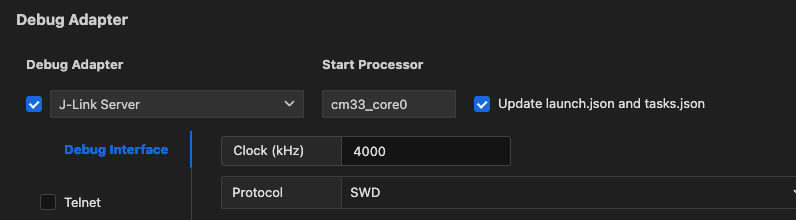
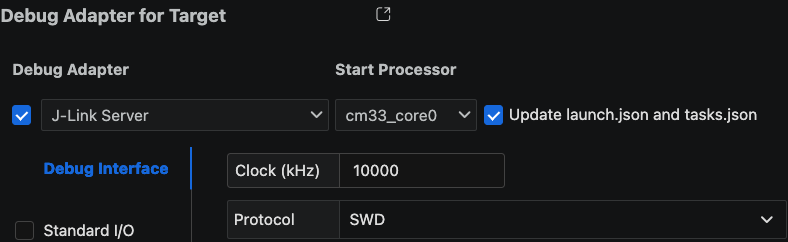
Updates for v1.74.0 (#56)
* Added missing commands

* Crated screenshots of Standard I/O option

* Updated rev history

diff --git a/docs/debug.md b/docs/debug.md
@@ -964,46 +964,51 @@ The workspace `launch.json` and `tasks.json` files are updated in the following 
 
 In the [Manage Solution](./manage_settings.md) dialog, select the one of the debug adapters named **xyz@pyOCD**:
 
+In multi-core systems, you can select the **Start Processor**.
+
 For the **Debug Interface**, you can:
 
-- Set the maximum clock speed.
-- Select the debug protocol (`SWD` or `JTAG`).
+- Set the maximum **Clock (kHz)** speed.
+- Select the debug **Protocol** (`SWD` or `JTAG`).
 
 ![pyOCD Debug Interface Settings](./images/pyocd-as-debug-adapter.png)
 
-For **Telnet**, you can:
+For **Standard I/O**, you can:
 
-- Enable or disable the use of **Telnet** for semihosting.
-- Set the **Telnet Mode** to:
-  - Telnet Server: if you want to connect to the target with a standalone Telnet Client application.
-  - Debug Console: redirects the output to the VS Code **DEBUG CONSOLE** panel.
-  - Serial Monitor: redirects the output to the **SERIAL MONITOR** extension.
-  - Text File: saves the output to a file in the project workspace.
-  - Disabled: does not redirect the serial output.
+- Enable or disable the use of **Standard I/O** for semihosting.
+- Set the **Redirect Mode** to:
+    - **Telnet Server**: if you want to connect to the target with a standalone Telnet Client application.
+    - **Debug Console**: redirects the output to the VS Code **DEBUG CONSOLE** panel.
+    - **Serial Monitor**: redirects the output to the **SERIAL MONITOR** extension.
+    - **Text File**: saves the output to a file in the project workspace.
+    - **Disabled**: does not redirect the serial output.
 
-![Using pyOCD with Telnet](./images/pyocd-telnet.png)
+![Using pyOCD with Standard I/O](./images/pyocd-standardio.png)
 
 ### J-Link Server
 
 In the [Manage Solution](./manage_settings.md) dialog select **J-Link Server**.
 
+In multi-core systems, you can select the **Start Processor**.
+
 For the **Debug Interface**, you can:
 
-- Set the maximum clock speed.
-- Select the debug protocol (`SWD` or `JTAG`).
+- Set the maximum **Clock (kHz)** speed.
+- Select the debug **Protocol** (`SWD` or `JTAG`).
 
 ![JLink Server as debug adapter](./images/j-link-debug-adapter.png)
 
-For **Telnet**, you can:
+For **Standard I/O**, you can:
 
-- Enable or disable the use of **Telnet** for semihosting.
-- Set the **Telnet Mode** to:
-  - Telnet Server: if you want to connect to the target with a standalone Telnet Client application.
-  - Debug Console: redirects the output to the VS Code **DEBUG CONSOLE** panel.
-  - Serial Monitor: redirects the output to the **SERIAL MONITOR** extension.
-  - Disabled: does not redirect the serial output.
+- Enable or disable the use of **Standard I/O** for semihosting.
+- Set the **Redirect Mode** to:
+    - **Telnet Server**: if you want to connect to the target with a standalone Telnet Client application.
+    - **Debug Console**: redirects the output to the VS Code **DEBUG CONSOLE** panel.
+    - **Serial Monitor**: redirects the output to the **SERIAL MONITOR** extension.
+    - **Text File**: saves the output to a file in the project workspace.
+    - **Disabled**: does not redirect the serial output.
 
-![Using J-Link with Telnet](./images/jlink-telnet.png)
+![Using JLink with Standard I/O](./images/pyocd-standardio.png)
 
 ### Arm Debugger
 
@@ -1021,16 +1026,23 @@ Before you can launch a debug session using Arm Debugger, you need to:
 
 In the [Manage Solution](./manage_settings.md) dialog, select the one of the debug adapters named **xyz@Arm-Debugger**.
 
+In multi-core systems, you can select the **Start Processor**.
+
+For the **Debug Interface**, you can:
+
+- Set the maximum **Clock** speed. Default is `auto`.
+- Select the debug **Protocol** (`SWD` or `JTAG`). Default is `auto`.
+
 ![Arm-Debugger as debug adapter](./images/arm-debugger-as-adapter.png)
 
 ### Arm FVPs
 
 In the [Manage Solution](./manage_settings.md) dialog:
 
-- Select the **Arm-FVP** debug adapter
-- Select the model you wish to use
-- Point to your configuration file
-- If you wish to set a simulation limit, add this in the **Misc** box:
+- Select the **Arm-FVP** debug adapter.
+- Select the **Model** you wish to use.
+- Select your **Config File**.
+- Use **Misc** to add additional command line options:
 
 ![Arm-FVP Debug Adapter Settings](./images/arm-fvp-debug-adapter.png)
 

diff --git a/docs/runexternal.md b/docs/runexternal.md
@@ -24,9 +24,11 @@ In addition to the [VS Code built-in variables](https://code.visualstudio.com/do
 | `${command:cmsis-csolution.getDeviceName}`     | The device name for the Active Target as specified in the csolution.yml |
 | `${command:cmsis-csolution.getDfpName}`        | The Device Family Pack (DFP) for the Active Target |
 | `${command:cmsis-csolution.getDfpPath}`        | The path to the content of the DFP for the Active Target |
+| `${command:cmsis-csolution.getInfoPath}`       | Path to the output directory containing active clangd information. |
+| `${command:cmsis-csolution.getPackRootPath}`   | Path to the CMSIS-Pack root directory, determined by CMSIS_PACK_ROOT or the operating system default. |
 | `${command:cmsis-csolution.getProcessorName}`  | The name of the processor for the Active Target; for multi-processor configurations start-pname |
-| `${command:cmsis-csolution.getSolutionFile}`   | The path to the csolution.yml file for the Active Solution |
-| `${command:cmsis-csolution.getSolutionName}`   | The base name of the Active Solution without the path and `.csolution.yml` suffix |
+| `${command:cmsis-csolution.getSolutionFile}`   | Path and filename of the csolution.yml file of the active solution. |
+| `${command:cmsis-csolution.getSolutionDir}`    | Directory of the active solution. |
 
 !!! Note
     - Active Solution refers to the *csolution project* that is currently loaded.

diff --git a/docs/index.md b/docs/index.md
@@ -48,6 +48,7 @@ The IDE:
 
 Version            | Description
 :------------------|:-------------------------
+1.74.0             | Updated screenshots for debug adapter settings, new cmsis-solution commands
 1.72.0             | Added **Working with native CMake applications** and archiving advice, updated debug documentation for trace
 1.70.0             | Updates for v1.68.0. and v1.70.0
 1.66.0             | Added **Software pack**, **Related Documentation**, and **Features and roadmap** chapters
